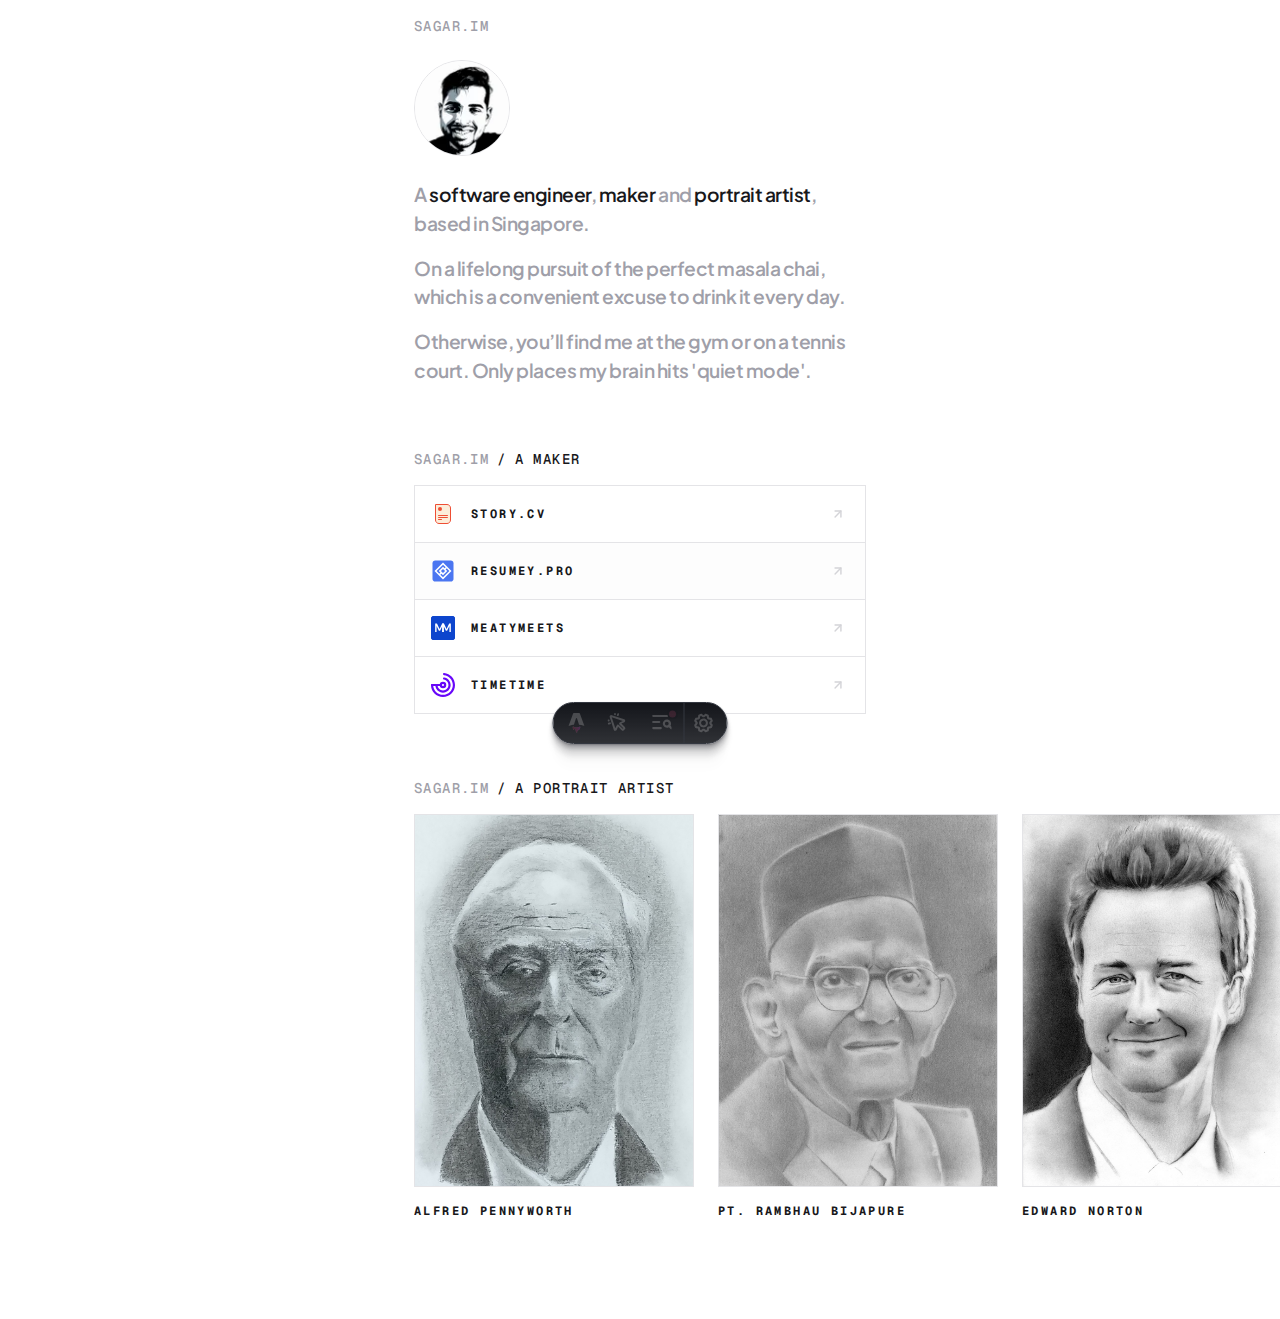
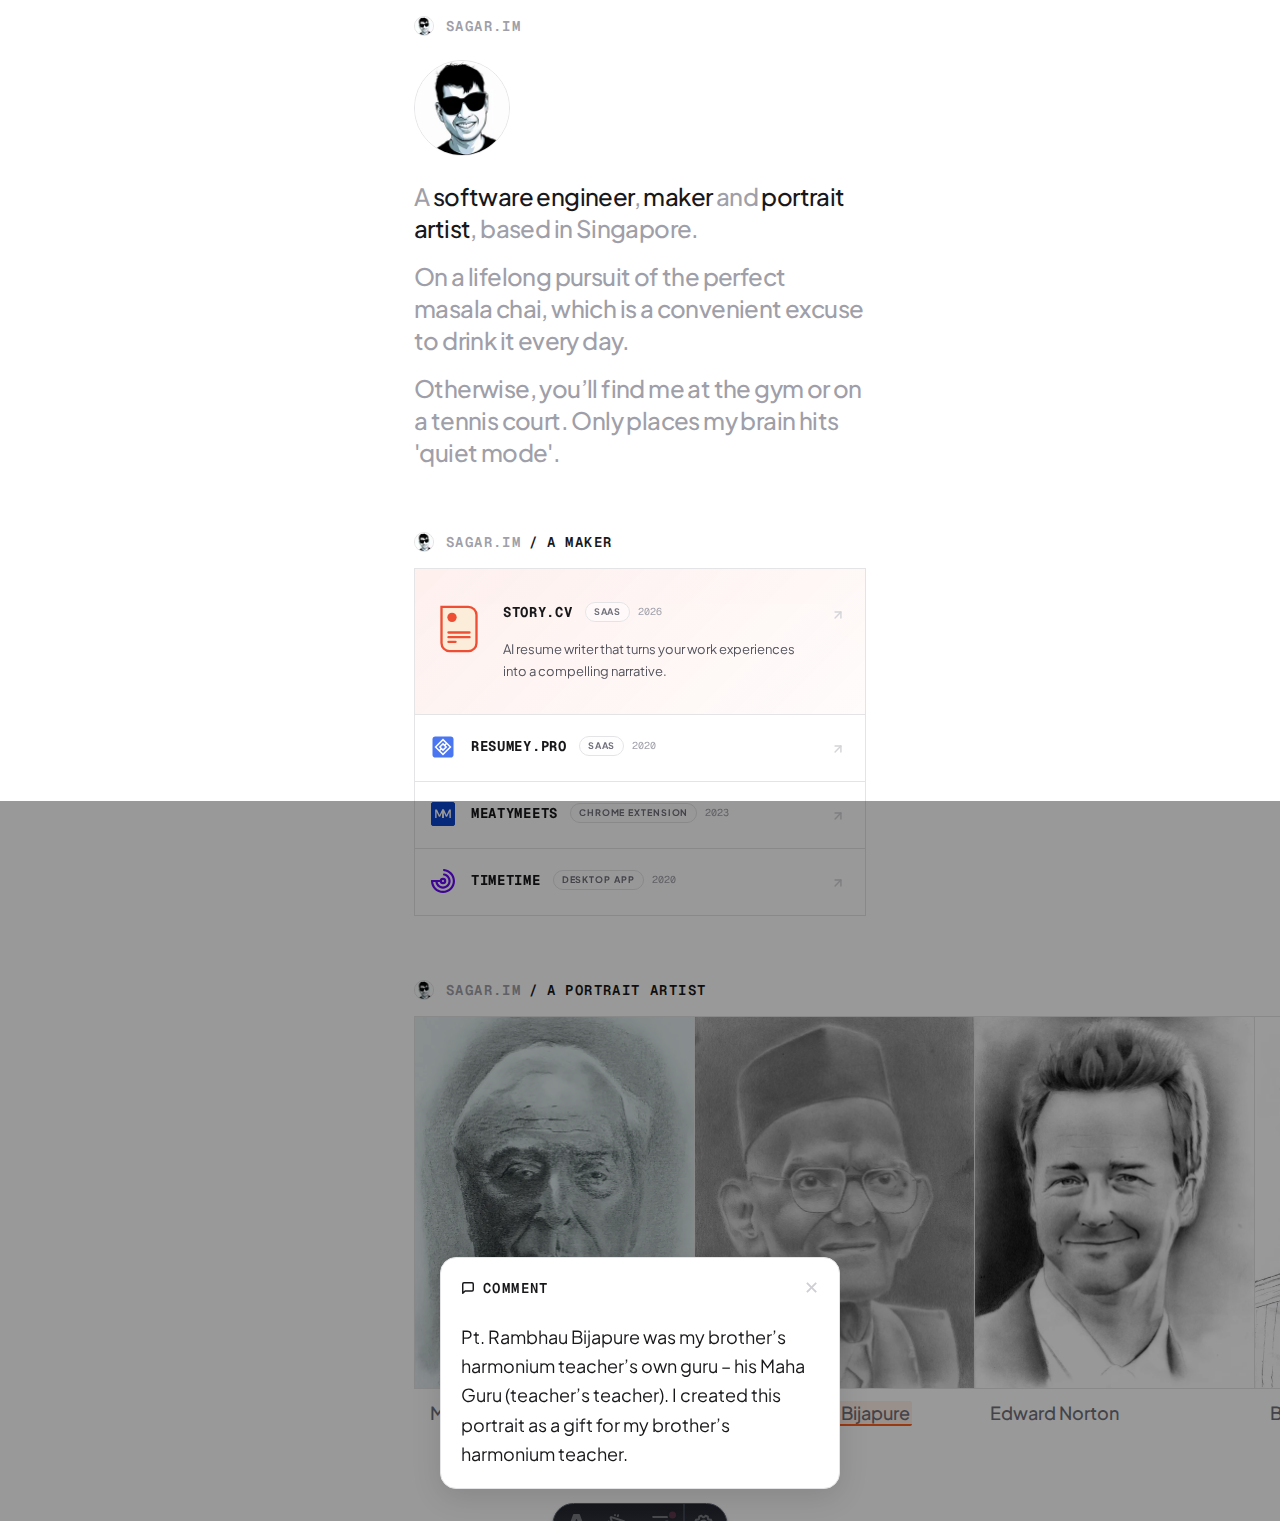
Redesign Maker section with glassmorphism and experimental interactions (#19)
- Updated content schema and markdown for apps (Story.cv, Resumey.Pro, MeatyMeets, TimeTime) to include tags, launch years, and brand colors.
- Implemented a "Liquid Bento" responsive layout that stacks metadata on mobile.
- Added experimental UI effects: brand-colored glassmorphism, mouse-following spotlight, and interactive border glows.
- Enhanced accordion transitions and micro-interactions for app cards.

diff --git a/src/content/config.ts b/src/content/config.ts
@@ -8,6 +8,9 @@ const apps = defineCollection({
     logo: image(),
     url: z.string().url(),
     order: z.number(),
+    tag: z.string(),
+    year: z.string(),
+    color: z.string(),
   }),
 });
 

diff --git a/src/content/apps/meatymeets.md b/src/content/apps/meatymeets.md
@@ -4,4 +4,7 @@ description: "Hassle-free way to join, prep and engage in Google Meet meetings."
 logo: "../../assets/apps/meatymeets.svg"
 url: "https://meatymeets.github.io"
 order: 3
+tag: "Chrome Extension"
+year: "2023"
+color: "#0D45CD"
 ---

diff --git a/src/content/apps/timetime.md b/src/content/apps/timetime.md
@@ -4,4 +4,7 @@ description: "Desktop app that meticulously tracks multiple projects without int
 logo: "../../assets/apps/timetime.svg"
 url: "https://timetime.gitlab.io"
 order: 4
+tag: "Desktop App"
+year: "2020"
+color: "#6807F9"
 ---

diff --git a/src/content/apps/resumey-pro.md b/src/content/apps/resumey-pro.md
@@ -4,4 +4,7 @@ description: "Create professional Markdown resumes that make you stand out from 
 logo: "../../assets/apps/resumey-pro.svg"
 url: "https://resumey.pro"
 order: 2
+tag: "SaaS"
+year: "2020"
+color: "#4B76F1"
 ---

diff --git a/src/content/apps/story-cv.md b/src/content/apps/story-cv.md
@@ -4,4 +4,7 @@ description: 'AI resume writer that turns your work experiences into a compellin
 logo: "../../assets/apps/story-cv.svg"
 url: "https://story.cv"
 order: 1
+tag: "SaaS"
+year: "2026"
+color: "#EE4E34"
 ---
